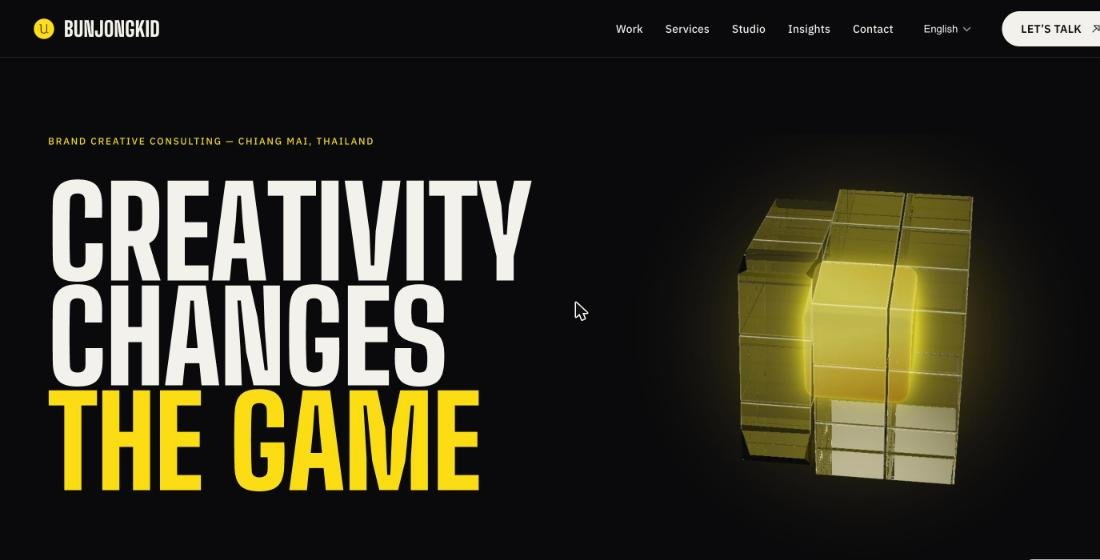
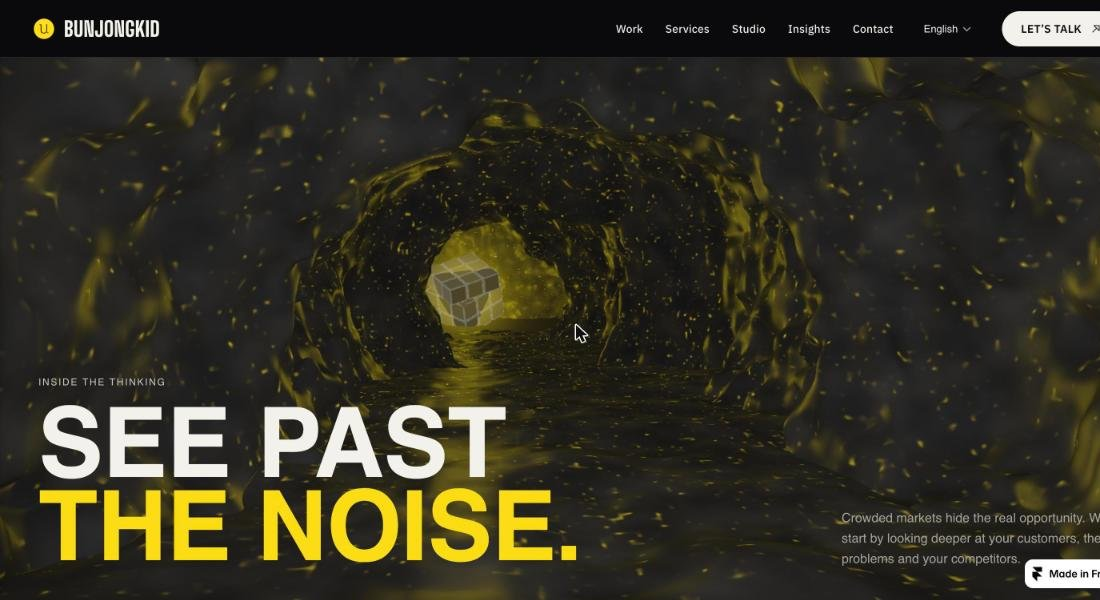
Add files via upload

diff --git a/index.html b/index.html
@@ -133,12 +133,12 @@
       <p style="margin-top:14px"><a href="https://github.com/pumarathaworn01/tomorn-trading-bot">View code on GitHub →</a></p>
     </div>
     <div class="card">
-      <a href="https://peaceful-light-786095.framer.app" target="_blank" rel="noopener"><img class="shot" src="bunjongkid-site.jpg" alt="BUNJONGKID website built in Framer"></a>
+      <a href="https://logical-flexibility-761680.framer.app" target="_blank" rel="noopener"><img class="shot" src="bunjongkid-site.jpg" alt="BUNJONGKID website built in Framer"></a>
       <div class="label">Web</div>
       <h3>BUNJONGKID Company Website</h3>
       <p>The agency's new website, built in Framer: 9 pages, a CMS with 68 client projects and an Insights blog, responsive for desktop, tablet and mobile.</p>
       <span class="tag">Framer</span><span class="tag">CMS</span><span class="tag">Responsive</span><span class="tag">AI-assisted</span>
-      <p style="margin-top:14px"><a href="https://peaceful-light-786095.framer.app" target="_blank" rel="noopener">View live site →</a></p>
+      <p style="margin-top:14px"><a href="https://logical-flexibility-761680.framer.app" target="_blank" rel="noopener">View live site →</a></p>
     </div>
   </div>
 </div></section>
